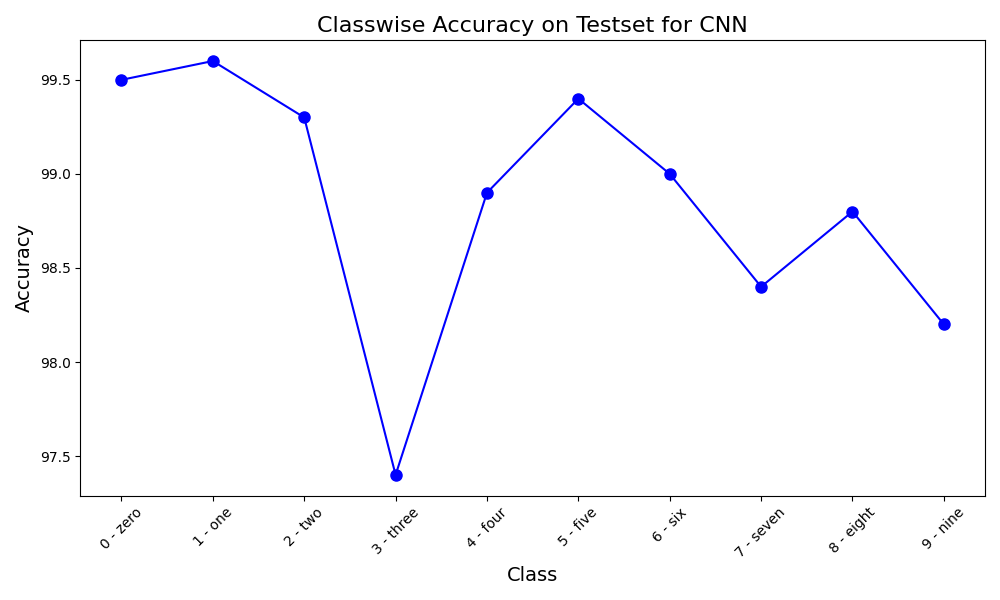
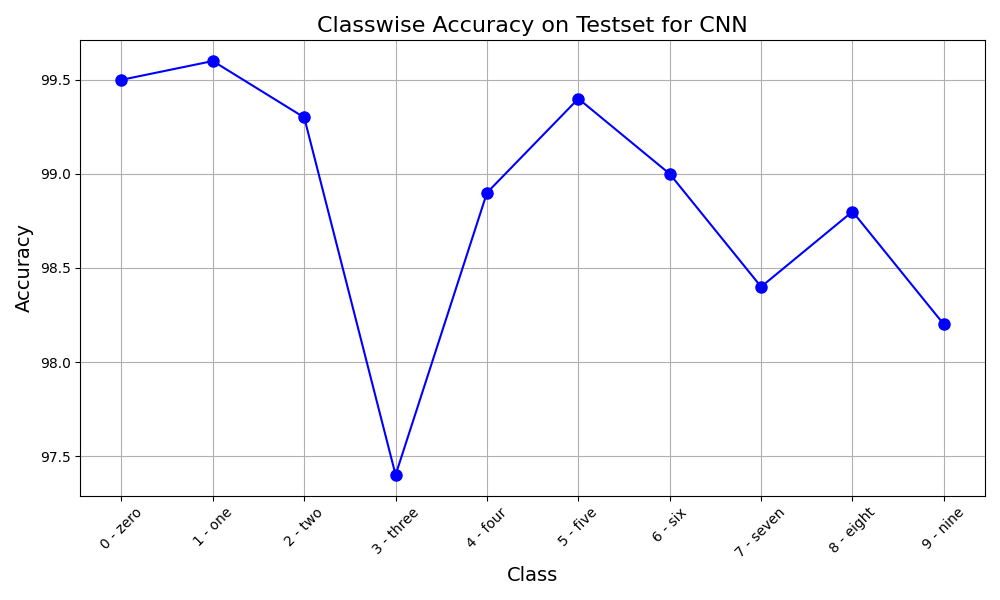
final model assesment

diff --git a/src/evaluation/CNN/run_cnn_eval.py b/src/evaluation/CNN/run_cnn_eval.py
@@ -50,24 +50,18 @@ if __name__=="__main__":
         print(f'Accuracy on test set is {accuracy}%')
         classes = testset.classes
 
-        ## TODO : run this below 
         score_dict = model_utils.test_model_classwise(testloader, model, classes)
         utils.plot_classwise(score_dict=score_dict, model="CNN", save_plot=True)
 
-        #print(score_df)
-        #utils.plot_classwise(score_df)
-
         # Boostrapped model evaluation
-        # total_accuracies = bootstrap.bootstrap_test_set(testset, model, config)
-        # lower_bound = np.percentile(total_accuracies, 2.5)
-        # upper_bound = np.percentile(total_accuracies, 97.5)
-        # mean_accuracy = np.mean(total_accuracies)
-        # print(lower_bound, mean_accuracy, upper_bound)
-        # fig, ax = plt.subplots()
-        # print(len(total_accuracies))
-        # sns.histplot(total_accuracies, element="poly", common_norm=False, ax=ax)
-        # plt.title(f"Accuracy on test set, with 95% CI: [{lower_bound, mean_accuracy, upper_bound}] ")
-        # plt.show()
+        total_accuracies = bootstrap.bootstrap_test_set(testset, model, config)
+        lower_bound = float(np.percentile(total_accuracies, 2.5))
+        upper_bound = float(np.percentile(total_accuracies, 97.5))
+        mean_accuracy = float(np.mean(total_accuracies))
+        fig, ax = plt.subplots()
+        sns.histplot(total_accuracies, element="poly", common_norm=False, ax=ax)
+        plt.title(f"Accuracy on test set, with 95% CI: [{lower_bound, upper_bound}] ")
+        plt.savefig(f'{PATH_TO_ROOT}/results/evaluation/cnn_confidence.png')
 
 
         

diff --git a/src/evaluation/LogReg/run_logreg_eval.py b/src/evaluation/LogReg/run_logreg_eval.py
@@ -5,6 +5,8 @@ from torch.utils.data import DataLoader
 import torchvision
 import numpy as np
 import git
+import seaborn as sns
+import matplotlib.pyplot as plt
 
 PATH_TO_ROOT = git.Repo(".", search_parent_directories=True).working_dir
 sys.path.append(PATH_TO_ROOT)
@@ -42,15 +44,13 @@ if __name__=="__main__":
         utils.plot_classwise(score_dict, model="LogReg", save_plot=save_plot)
 
         # Boostrapped model evaluation
-        # total_accuracies = bootstrap.bootstrap_test_set(testset, model, config)
-        # lower_bound = np.percentile(total_accuracies, 2.5)
-        # upper_bound = np.percentile(total_accuracies, 97.5)
-        # mean_accuracy = np.mean(total_accuracies)
-        # print(lower_bound, mean_accuracy, upper_bound)
-        # fig, ax = plt.subplots()
-        # print(len(total_accuracies))
-        # sns.histplot(total_accuracies, element="poly", common_norm=False, ax=ax)
-        # plt.title("Accuracy on test set")
-        # plt.show()
+        total_accuracies = bootstrap.bootstrap_test_set(testset, model, config)
+        lower_bound = float(np.percentile(total_accuracies, 2.5))
+        upper_bound = float(np.percentile(total_accuracies, 97.5))
+        mean_accuracy = float(np.mean(total_accuracies))
+        fig, ax = plt.subplots()
+        sns.histplot(total_accuracies, element="poly", common_norm=False, ax=ax)
+        plt.title(f"Accuracy on test set, with 95% CI: [{lower_bound, upper_bound}] ")
+        plt.savefig(f'{PATH_TO_ROOT}/results/evaluation/logreg_confidence.png')
 
 

diff --git a/src/utils/utils.py b/src/utils/utils.py
@@ -95,6 +95,7 @@ def plot_classwise(score_dict: dict, model: str, save_plot:bool):
     plt.ylabel('Accuracy', fontsize=14)
     plt.title(f'Classwise Accuracy on Testset for {model}', fontsize=16)
     plt.xticks(rotation=45)
+    plt.grid(True)
     plt.tight_layout()
     if save_plot: 
         plt.savefig(f'{PATH_TO_ROOT}/results/evaluation/{model}_classwise_acc.png')
